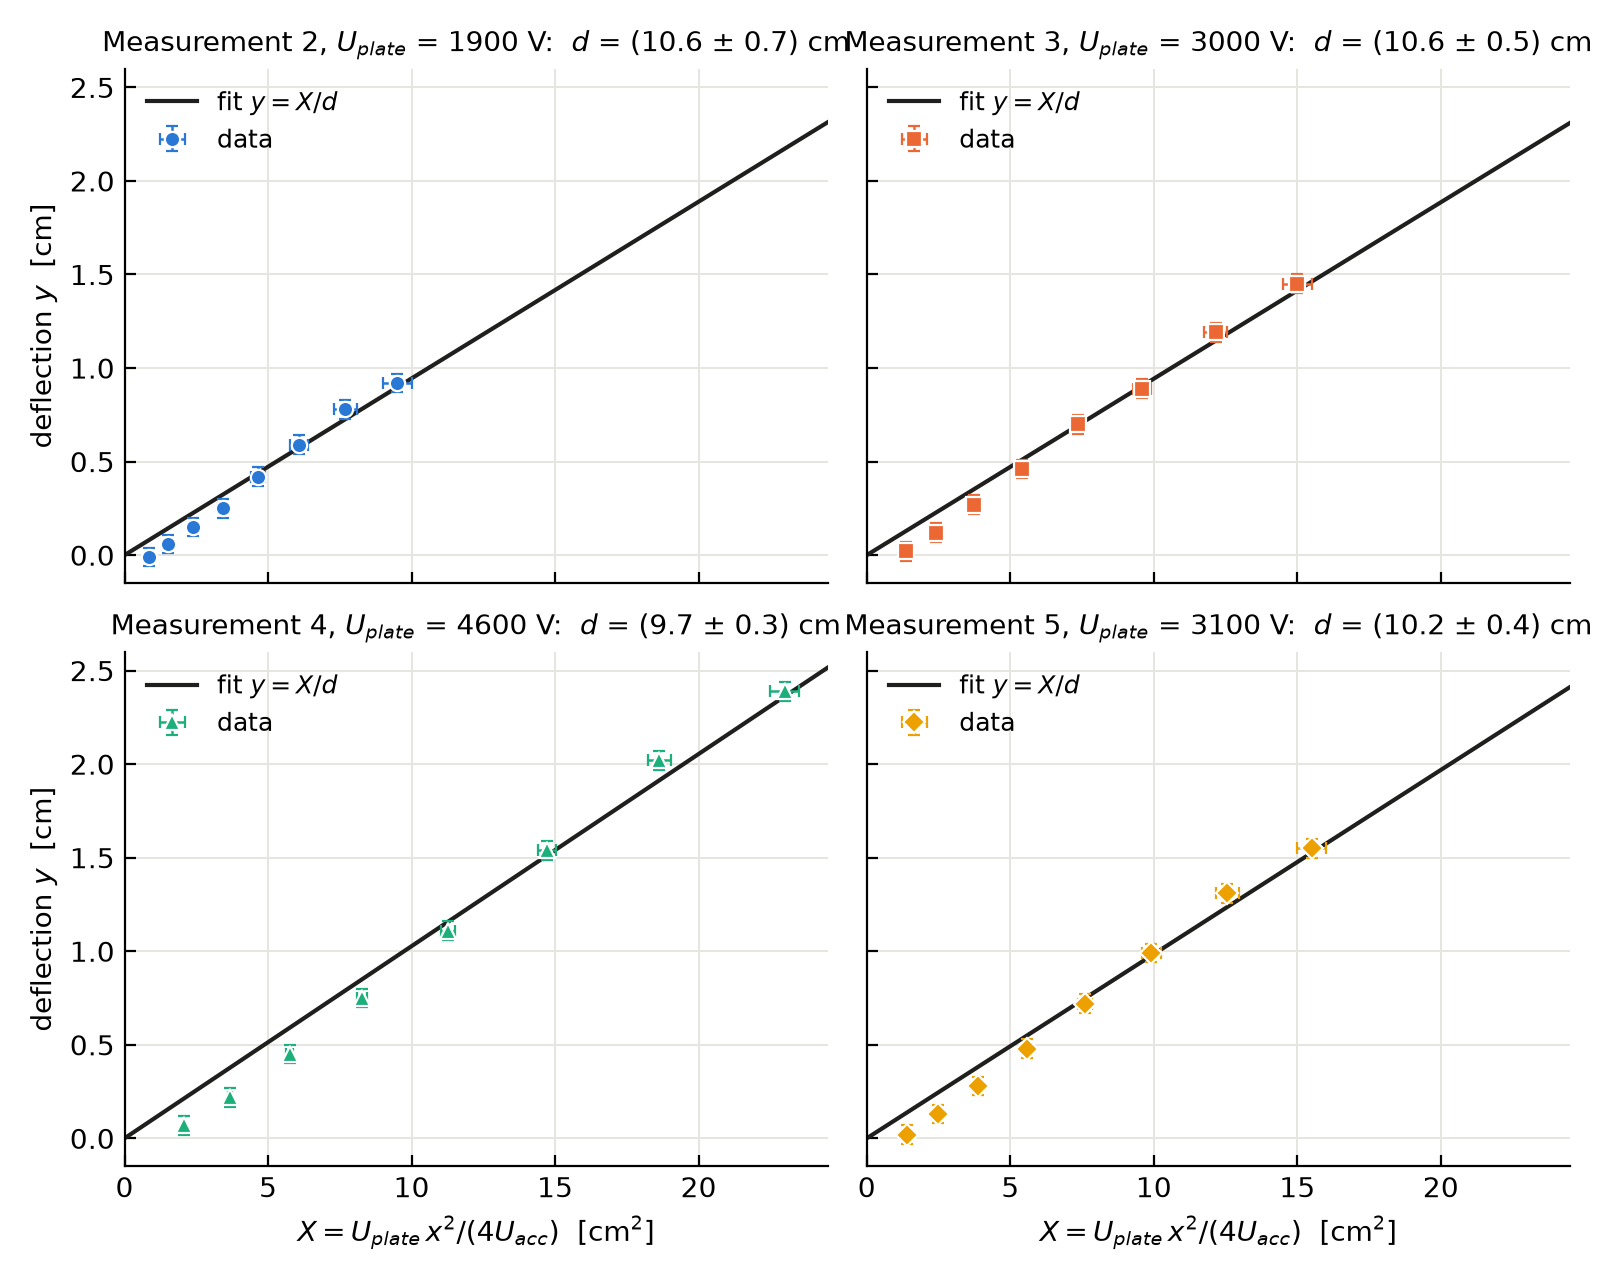
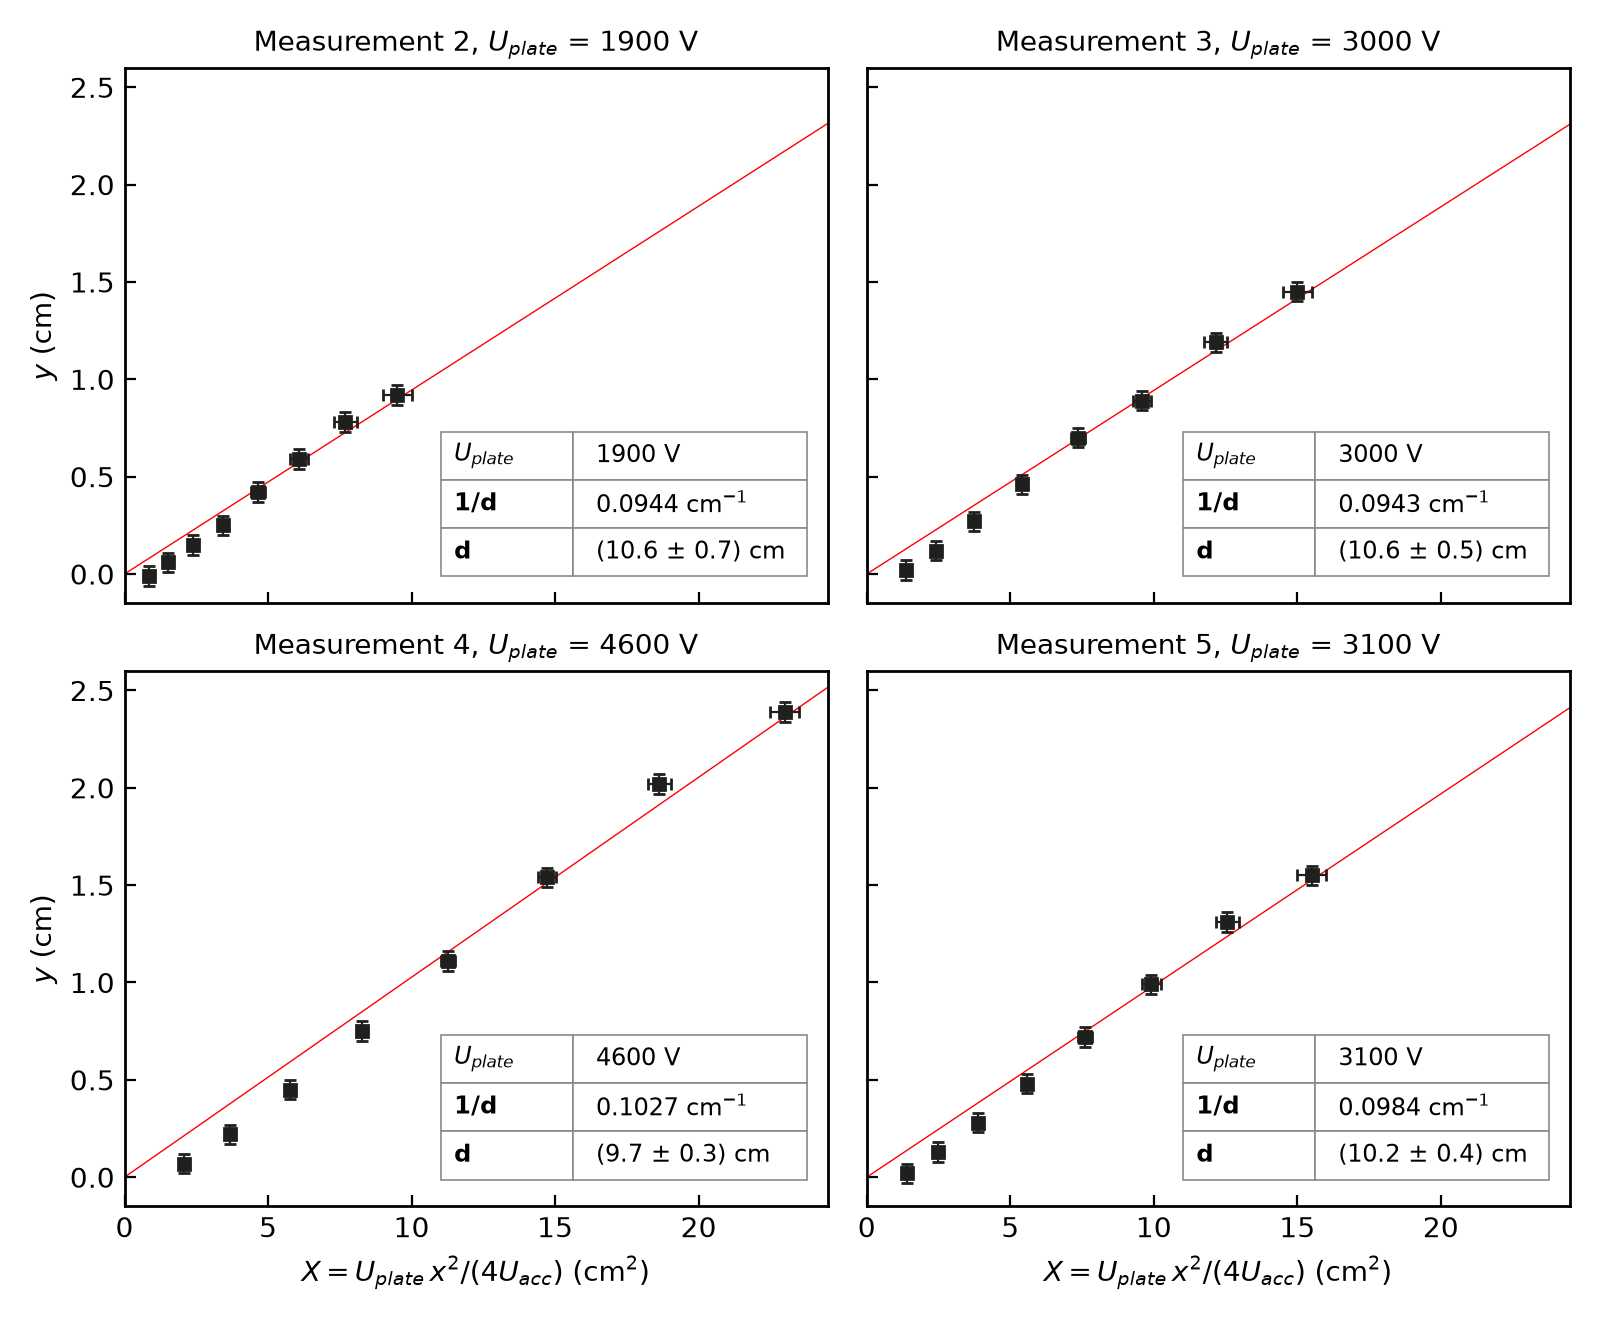
update all points

diff --git a/e-beam.py b/e-beam.py
@@ -40,8 +40,6 @@ def fit_table(ax, rows, bbox, col=(0.28, 0.72)):
         cell.set_edgecolor("#8a8a85")
         cell.set_linewidth(0.6)
         cell.set_facecolor("white")
-        if c == 0:
-            cell.set_text_props(fontweight="bold")
     return tb
 
 
